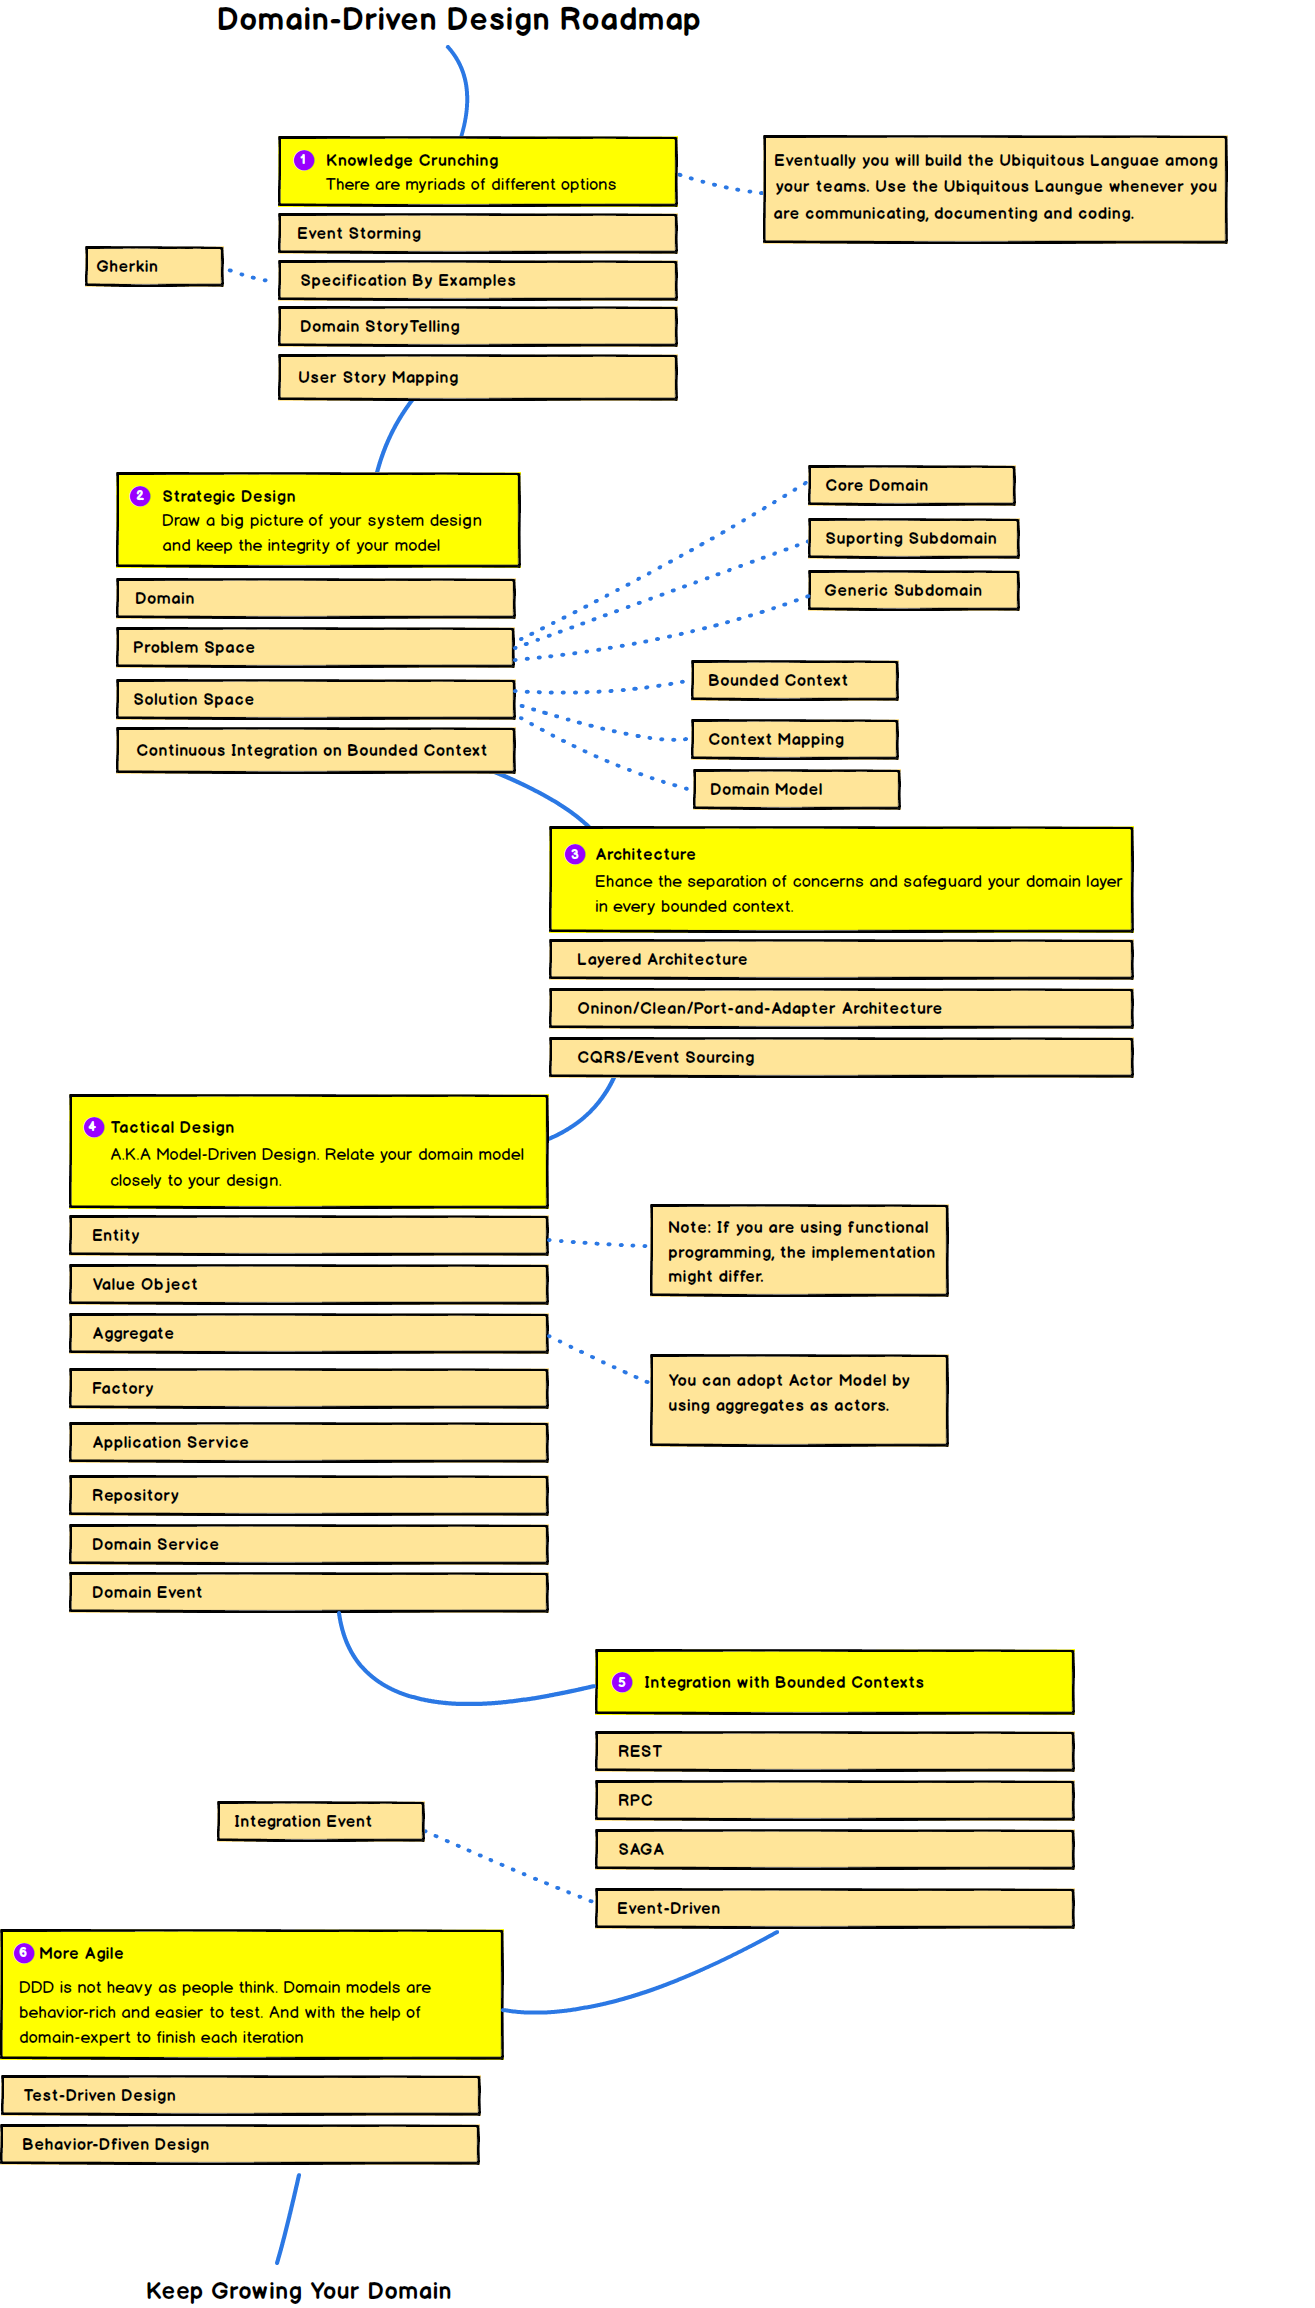
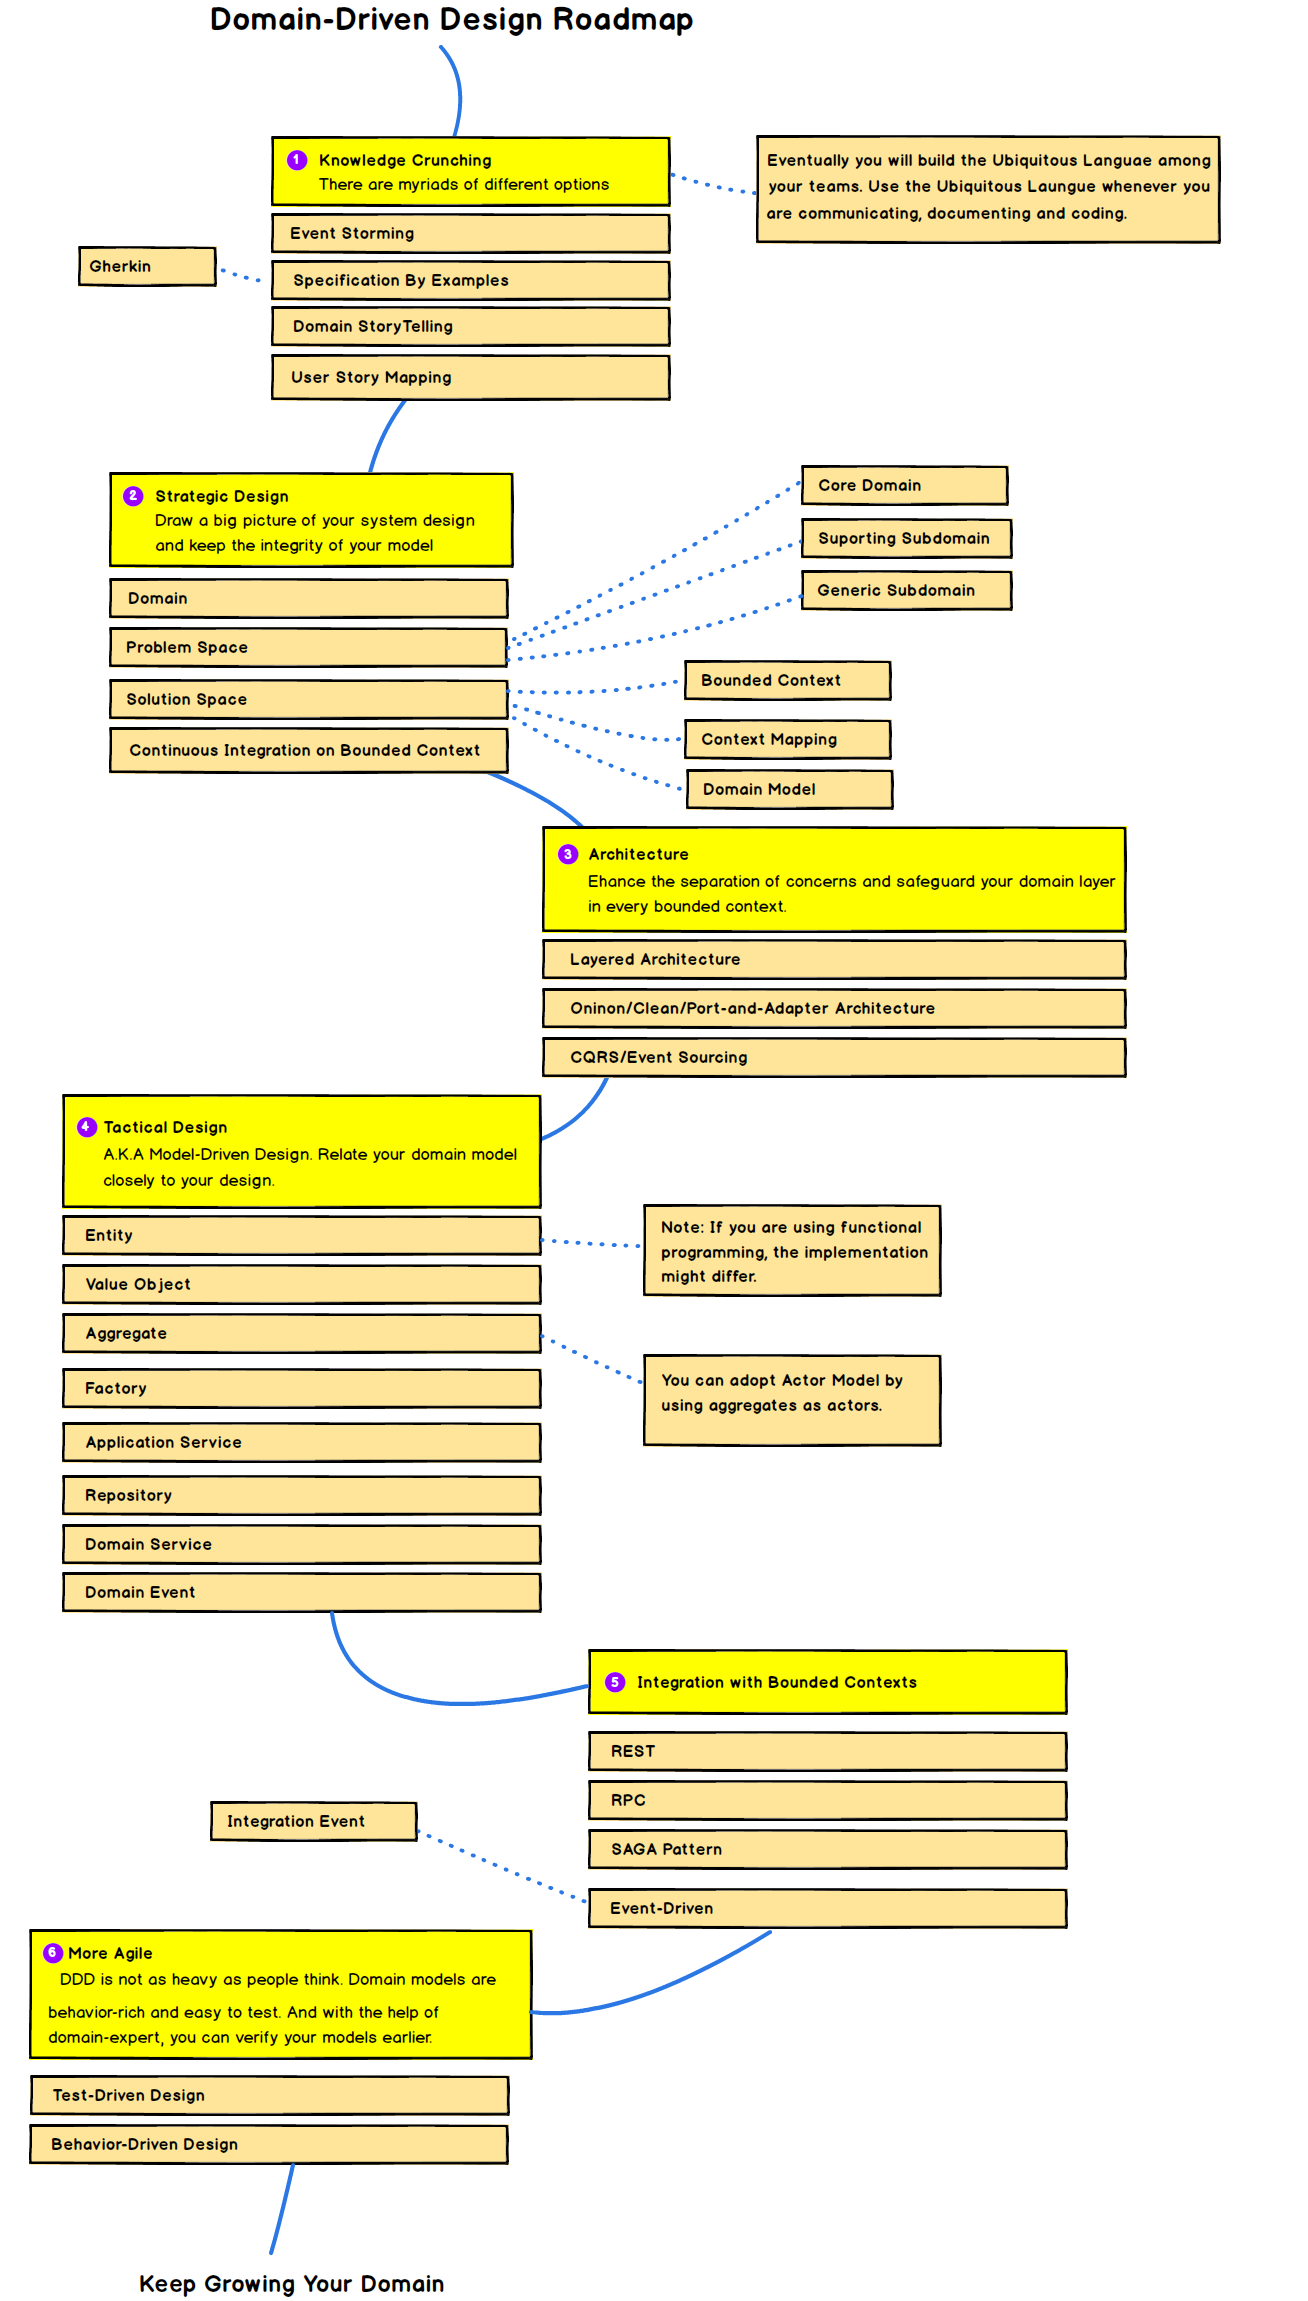
Update roadmap png

diff --git a/posts/day2/index.md b/posts/day2/index.md
@@ -14,7 +14,7 @@ DDD 主要分為兩大部分，分別為：
 
 以下這張圖完美呈現了整個 DDD 的模式概覽:
 ![img](https://i.imgur.com/UklC1Ek.jpg)
-(source: https://domainlanguage.com/wp-content/uploads/2016/05/DDD_Reference_2015-03.pdf)
+(source: [Domain-Driven Design Reference](https://domainlanguage.com/wp-content/uploads/2016/05/DDD_Reference_2015-03.pdf))
 
 ### Strategic Design 戰略設計
 
@@ -38,25 +38,26 @@ DDD 主要分為兩大部分，分別為：
 - Entity: 有 id 概念、狀態可持續被變更的物件。
 - Value Object: 無 identity 概念、狀態不可變更的物件 (object)，用於描述某個事物的特徵。
 - Aggregate: 由一堆有相關業務目的的物件 (包含 Entity 與 Value Object) 組成的集合，通常是為了保證邏輯判斷的完整性。會選一個 Entity 作為 Aggregate Root 讓與外界的交流必須經過 Aggregate Root。
-- Domain Model: 以上三個因為負責處理系統的業務邏輯，因此統稱為 domain model。
+- Domain Model: 以上三個因為負責處理程式的業務邏輯，因此統稱為 domain model。
 - Repository: 一種程式與資料庫交流的抽象層，通常一個 Aggregate 會對上一個 Repository。
 - Factory: 用於產生複雜的 Aggregate 、 Entity 、 Value Object 的工廠模式。
 - Domain Event: 某件領域專家在乎的事件，通常用於 Aggregate 間或 Bounded Context 間的溝通。
 - Application Service: 等同於系統的 Use Case ，主要負責技術細節並呼叫 domain model 、 domain service 處理業務邏輯。
 - Domain Service: 負責跨 domain model 的業務邏輯運算，處於 Application Service 與 domain model 之間。
 
-阿說到 roadmap ，趁著心頭一熱就畫了一張：
+如果以上看得霧煞煞，可以看以下這張精美(簡)版：
 ![](https://raw.githubusercontent.com/FongX777/it30-domain-driven-design/master/posts/day2/ddd-roadmap.png)
+(完整放大版點此[連結](https://bit.ly/2lXdZvj))
 
-## 目錄
+## 鐵人賽目錄
 
-戰略部分會依照以下順序展開：
+以上說了那麼多，以下會跟大家介紹本次鐵人賽會涵蓋到的部分。戰略部分會依照以下順序展開：
 
 - Domain & Subdomains & Bounded Context
 - Context Mapping Patterns
 - Event Storming
 
-結束戰略銜接戰術前，我會先介紹一些現代的架構以支援戰術與戰略的融合：
+結束戰略銜接戰術前，我會先介紹一些現代的架構以支援戰術與戰略的融合以做到「關注點分離」：
 
 - Layered Architecture
 - Onion/Clean Architecture
@@ -92,12 +93,13 @@ DDD 主要分為兩大部分，分別為：
 
 ## 資源分享
 
-非免費資源我會在後面標注星號:
+非免費資源我會在後面標注星號：
 
 ### 書籍
 
 - [Domain-Driven Design \*](https://www.tenlong.com.tw/products/9789864343874?list_name=c-domain-driven-design) 俗稱小藍書，看了會有很多收穫但稍嫌抽象。可以買一本供奉著。
 - [Implementing Domain-Driven Design \*](https://www.tenlong.com.tw/products/9787121224485) 小紅書，也是本系列主要參考對象，以 JAVA 實現，雖然年代稍久，但實作面很強的一本書，很建議與本篇一起閱讀。
+- [Domain-Driven Design Distilled \*](https://www.tenlong.com.tw/products/9780134434421) 可以當小紅書前傳來看，很適合傳教或推坑使用。
 - [Patterns, Principles, and Practices of Domain-Driven Design \*](https://www.tenlong.com.tw/products/9781118714706?list_name=srh) 另一本很推薦的書，尤其適合熟悉 C# 的朋友入手。很建議與上面那本搭配閱讀。
 - [DDD Reference](http://domainlanguage.com/ddd/reference/) DDD 專有名詞對照書。
 - [Domain Driven Design Quickly](https://www.infoq.com/minibooks/domain-driven-design-quickly/) 小藍書精簡版。 [簡中版](https://www.infoq.cn/article/domain-driven-design-quickly?fbclid=IwAR1evqEP9h3Kj04tU5N0_oUPydmJmsuNahKUKqwz3TKgL84izTfxY9g39ks)
@@ -127,3 +129,5 @@ DDD 主要分為兩大部分，分別為：
 
 現在就加入 [Domain-Driven Design Taiwan](https://www.facebook.com/groups/dddtaiwan/) ，隨時更新活動與新知！
 最近才剛辦完耗時半年的 Implementing Domain-Driven Design 的讀書會，如果對讀書會有興趣請密切關注！
+
+也可以到 [ddd-tw/ddd-events](https://github.com/ddd-tw/ddd-events) 翻翻過去活動留下來的資源。
